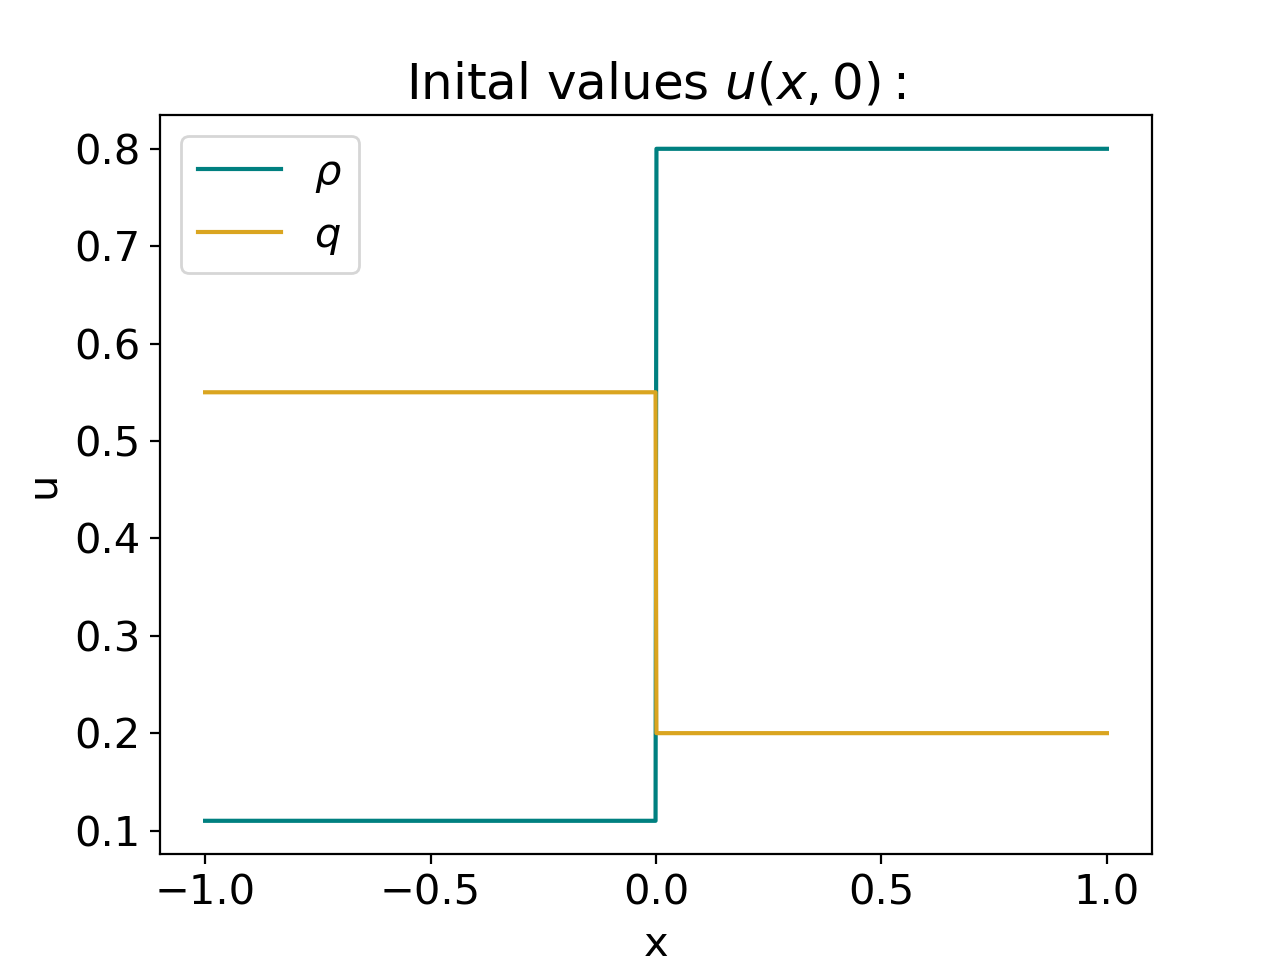
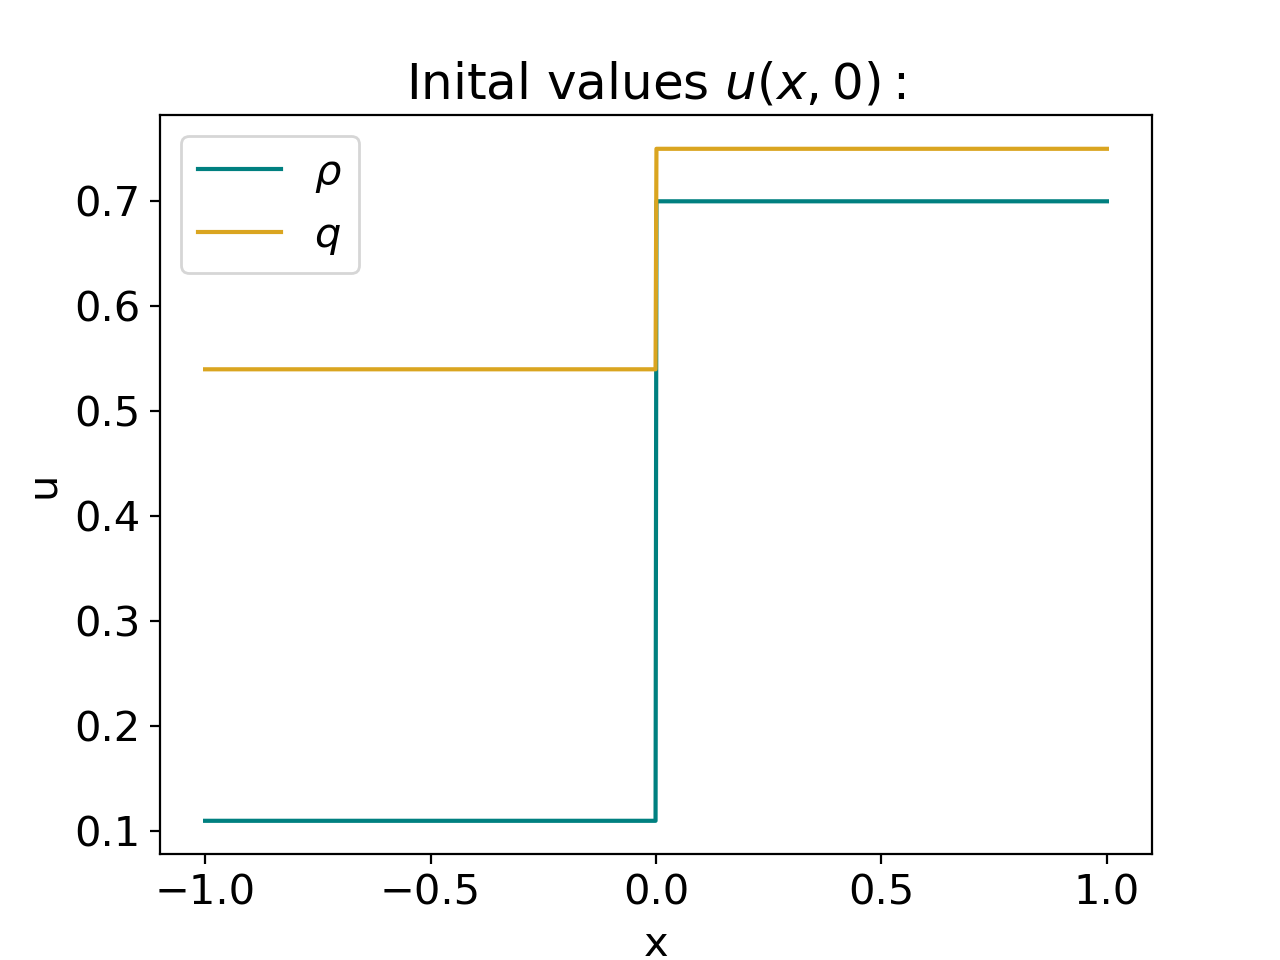
Oppdatert figur

diff --git a/NumeriskLøsning.py b/NumeriskLøsning.py
@@ -23,7 +23,7 @@ vf = lambda rho: (1-rho/R)*V
 vc = lambda rho,q: (1-rho/R)*q/rho
 
 xs = np.linspace(-1,1,1000)
-ts = np.linspace(0,1, 1000)
+ts = np.linspace(1,2, 1000)
 
 # Eigenvalues
 lambda1 = lambda r,q: (2/R - 1/r)*(Q-q) - Q/R
@@ -49,6 +49,32 @@ q_m2 = 0.16
 
 r_r = 0.9
 q_r = 0.65
+
+def initialValuesfor2a():
+    r_l = 0.11
+    q_l = 0.55
+
+    r_m1 = 0.22
+    q_m1 = 0.58
+
+    r_m2 = 0.22
+    q_m2 = 0.58
+
+    r_r = 0.7
+    q_r = 0.75
+
+def initialValuesForCompoundWave3b():
+    r_l = 0.08
+    q_l = 0.38
+
+    r_m1 = 0.25
+    q_m1 = 0.38
+
+    r_m2 = 0.68
+    q_m2 = 0.16
+
+    r_r = 0.9
+    q_r = 0.65
 
 
 def plotInitialValues():
@@ -95,22 +121,27 @@ def plotAnalyticalSolutionFreeToCong(t, plot):
     i = 0
     for x in xs:
         if x < Lambda(r_l, r_m1, q_l, q_m1) * t:
+
             sol_r[i] = r_l
             sol_q[i] = q_l
             i += 1
         elif (Lambda(r_l, r_m1, q_l, q_m1) * t < x) and (x < lambda1(r_m1, q_m1) * t):
+
             sol_r[i] = r_m1
             sol_q[i] = q_m1
             i += 1
         elif (lambda1(r_m1, q_m1) * t < x) and (x < lambda1(r_m2, q_m2) * t):
+
             sol_r[i] = w_r(r_m1, q_m1, x / t)
             sol_q[i] = w_q(r_m1, q_m1, x / t)
             i += 1
         elif (lambda1(r_m2, q_m2) * t < x) and (x < lambda2(r_r, q_r) * t):
+
             sol_r[i] = r_m2
             sol_q[i] = q_m2
             i += 1
         elif x > lambda2(r_r, q_r) * t:
+
             sol_r[i] = r_r
             sol_q[i] = q_r
             i += 1
@@ -160,3 +191,6 @@ plot_xtSolFreeToCong()
 
 
 
+print("Speed of phase boundary: " , Lambda(r_l, r_m1, q_l, q_m1))
+print("Speed of shock: " , lambda1(r_m2, q_m2))
+print("Speed of contact: ", lambda2(r_r, q_r))
